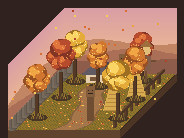
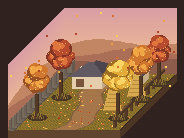
Autumn scene: bigger houses, trees moved aside, human-like props (scarecrow, jangseung) removed
Claude-Session: https://claude.ai/code/session_01FPZSaKiVNU2zED737yZX4w

diff --git a/tools/render_autumn.py b/tools/render_autumn.py
@@ -76,19 +76,6 @@ def build():
             for k in range(0, 18, 4): sc.d.line([(b[0] - 8 + k // 3, b[1] - k), (b[0] + 8 - k // 3, b[1] - k)], fill=(176, 132, 56))
         sc.jobs.append((d, f))
     hay(int(130 * kx), int(70 * kd)); hay(int(145 * kx), int(120 * kd))
-    def jang(x, d):
-        def f():
-            b = sc.P(x, d, 0); sc.d.rectangle([b[0] - 3, b[1] - 28, b[0] + 3, b[1]], fill=(98, 68, 44)); sc.d.rectangle([b[0] - 4, b[1] - 34, b[0] + 4, b[1] - 24], fill=(122, 86, 56))
-            sc.d.point((b[0] - 2, b[1] - 30), fill=(30, 20, 16)); sc.d.point((b[0] + 2, b[1] - 30), fill=(30, 20, 16)); sc.d.line([(b[0] - 2, b[1] - 27), (b[0] + 2, b[1] - 27)], fill=(30, 20, 16))
-        sc.jobs.append((d, f))
-    jang(int(112 * kx), int(34 * kd)); jang(int(112 * kx), int(150 * kd))
-    def scarecrow(x, d):
-        def f():
-            b = sc.P(x, d, 0); sc.d.line([(b[0], b[1]), (b[0], b[1] - 30)], fill=(98, 68, 44), width=2); sc.d.line([(b[0] - 9, b[1] - 22), (b[0] + 9, b[1] - 22)], fill=(98, 68, 44), width=2)
-            sc.d.ellipse([b[0] - 4, b[1] - 36, b[0] + 4, b[1] - 28], fill=(224, 190, 120)); sc.d.polygon([(b[0] - 6, b[1] - 36), (b[0] + 6, b[1] - 36), (b[0], b[1] - 42)], fill=(150, 104, 56))
-            sc.d.rectangle([b[0] - 4, b[1] - 26, b[0] + 4, b[1] - 12], fill=(120, 86, 70))
-        sc.jobs.append((d, f))
-    scarecrow(int(138 * kx), int(170 * kd))
     for d in range(6, D - 8, 11): sc.box(W - 10, d, 2, 2, 10, (98, 68, 44), (80, 54, 36), (62, 42, 30)); 
     sc.box(W - 10, 6, 2, D - 14, 1.6, (98, 68, 44), (80, 54, 36), (62, 42, 30), z0=7)
     def house(x, d, w, dp, h):
@@ -99,9 +86,9 @@ def build():
             sc.poly([(x + w + 3, d - 2, h), (x + w + 3, d + dp + 2, h), (x + w / 2 + 3, d + dp / 2 + 3, h + rh), (x + w / 2 + 3, d + dp / 2, h + rh)], (62, 60, 76))
             sc.poly([(x + 4, d, 2), (x + 11, d, 2), (x + 11, d, h - 4), (x + 4, d, h - 4)], (110, 78, 52))
         sc.jobs.append((d, f))
-    house(30, D - 16, 20, 12, 9); house(62, D - 12, 18, 9, 8)
+    house(22, D - 28, 30, 18, 13); house(62, D - 22, 26, 14, 11)
     # 나무: 단풍(주황·빨강)·은행(노랑)·감나무
-    for x, d, h, k, sp in ((16, 26, 42, 'orange', 11), (20, 66, 46, 'red', 12), (18, 98, 40, 'gold', 11), (98, 24, 46, 'gold', 13), (96, 62, 42, 'orange', 11), (84, 100, 38, 'red', 10), (46, 88, 34, 'orange', 9)):
+    for x, d, h, k, sp in ((16, 26, 42, 'orange', 11), (20, 66, 46, 'red', 12), (98, 24, 46, 'gold', 13), (102, 62, 42, 'orange', 11), (104, 94, 38, 'red', 10)):
         tree(sc, x, d, h, k, rng, sp)
     sc.run()
     # 감나무의 감(주황 점)과 떨어지는 낙엽(공중)
